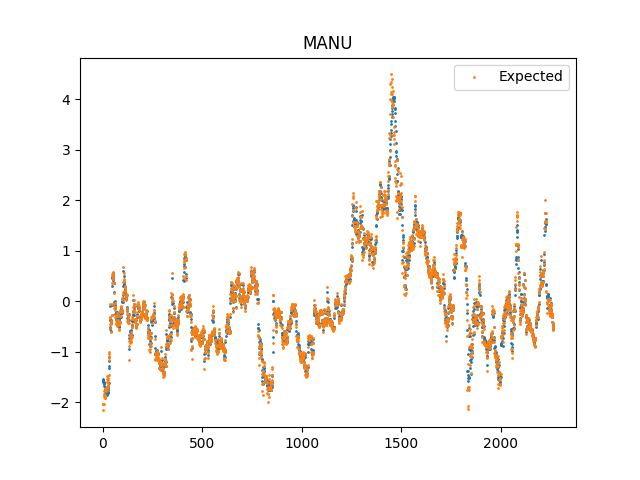
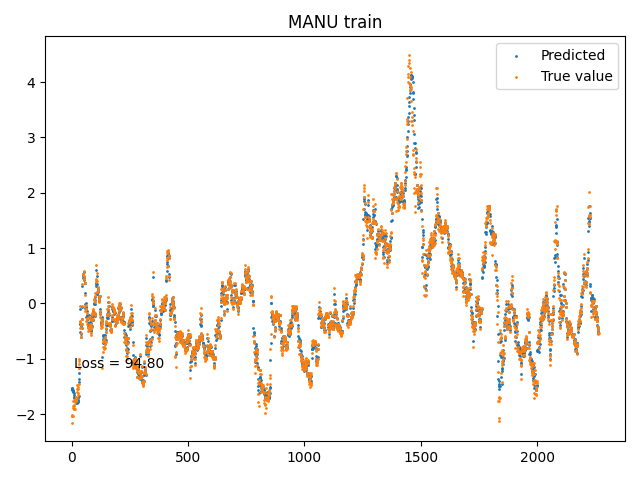
[Plotting] Added loss to plotting

diff --git a/data_exploration.py b/data_exploration.py
@@ -1,0 +1,35 @@
+import yfinance
+import pandas as pd
+import numpy as np
+import matplotlib.pyplot as plt
+
+symbols = ["MSFT", "GOOG", "META", "MANU", "PSX"] #list of stocks used
+x_locs = [0 for i in range(len(symbols))]    #lists of the x and y coordinates for the text in the plots
+y_locs = [2.5, 2.5, 2.0, 3.75, 2.25]
+
+for i, symbol in enumerate(symbols):
+    train_data = pd.read_csv(f"data/{symbol}_train.csv") #load training and test data
+    test_data = pd.read_csv(f"data/{symbol}_test.csv")
+    
+    num_days = len(train_data)+len(test_data)    #create list of days
+    days = [i for i in range(num_days)]
+    
+    train_mean = np.mean(train_data['Close'])  #calculate mean and sd of train data
+    train_sd = np.std(train_data['Close'])
+    
+    train_data_norm = (train_data['Close']-train_mean)/train_sd #normalize with train data mean and sd
+    test_data_norm = (test_data['Close']-train_mean)/train_sd
+    
+    fig, ax = plt.subplots(figsize=(12,7), tight_layout=True)   #plot data
+    ax.plot(days[:len(train_data)], train_data_norm, label=f'{symbol} train data')
+    ax.plot(days[len(train_data):], test_data_norm, label=f'{symbol} test data')
+    ax.text(x_locs[i], y_locs[i], f"n={num_days}", fontsize=14)
+    ax.text(x_locs[i], y_locs[i]-0.3, f"original train mean={np.round(train_mean, 2)}", fontsize=14)
+    ax.text(x_locs[i], y_locs[i]-0.6, f"original train sd={np.round(train_sd, 2)}", fontsize=14)
+    ax.set_title(f'{symbol}', fontsize=22)
+    ax.set_ylabel('Normalized Price', fontsize=18)
+    ax.set_xlabel('Days', fontsize=18)
+    ax.tick_params(axis='x', labelsize=12)
+    ax.tick_params(axis='y', labelsize=12)
+    ax.legend(fontsize=14)
+    plt.savefig(f"plots/{symbol}_data_exploration.png", dpi=300, bbox_inches='tight')                                                      

diff --git a/feedforward.py b/feedforward.py
@@ -70,6 +70,7 @@ def run_model(
     name: str,
     train=False,
     num_epochs=1,
+    plot_start=0,
 ):
     if not train:
         # Only run once for tests
@@ -102,13 +103,15 @@ def run_model(
 
         if epoch == num_epochs - 1:
             # Plot the training data
-            plt.scatter(indexes, outputs, s=1)
+            plt.scatter(indexes, outputs, s=1, label="Predicted")
         print(epoch, total_loss)
 
     dataset = loader.dataset
-    plt.scatter(dataset.index, dataset.close, label="Expected", s=1)
-    plt.title(name)
+    plt.text(10, np.min(dataset.close + 1), "Loss = {0:.2f}".format(total_loss))
+    plt.scatter(dataset.index, dataset.close, label="True value", s=1)
+    plt.title("{0} {1}".format(name, "train" if train else "test"))
     plt.legend()
+    plt.tight_layout()
 
     save_path = "plots/{0}_{1}.png".format(name, "train" if train else "test")
     plt.savefig(save_path)
